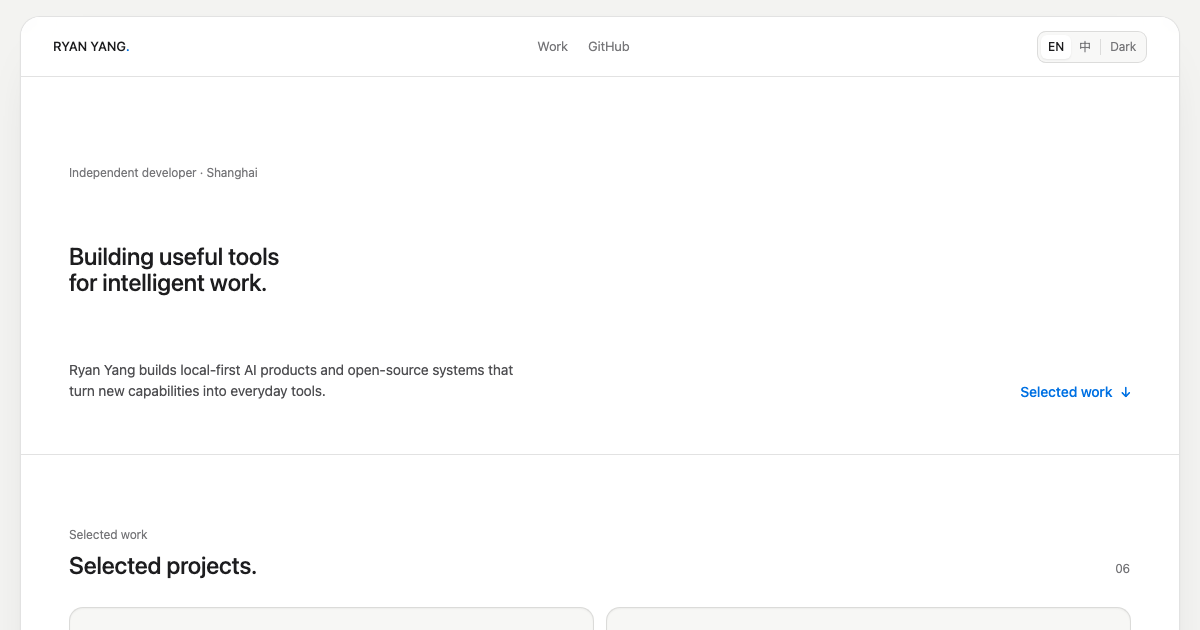
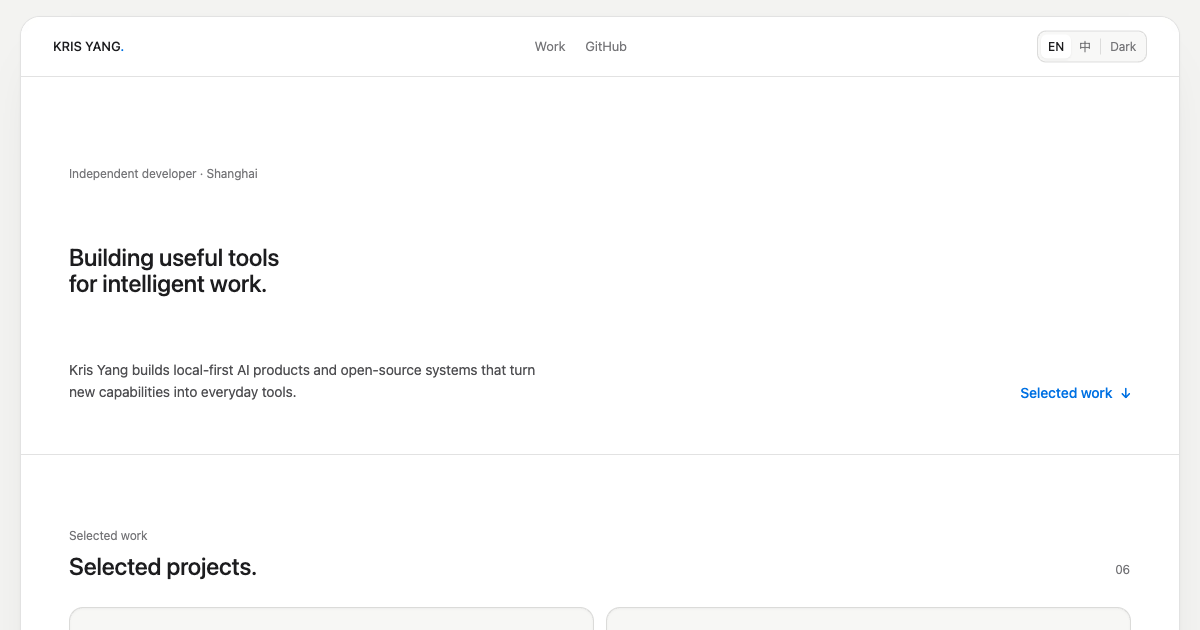
Rename site to Kris Yang on krisyang.dev

diff --git a/src/components/Portfolio.tsx b/src/components/Portfolio.tsx
@@ -8,15 +8,15 @@ export default function Portfolio() {
     <main className="site-shell">
       <div className="site-panel">
         <header className="site-header">
-          <a className="wordmark" href="#top" aria-label="Ryan Yang home">
-            RYAN YANG<span aria-hidden="true">.</span>
+          <a className="wordmark" href="#top" aria-label="Kris Yang home">
+            KRIS YANG<span aria-hidden="true">.</span>
           </a>
           <nav className="site-nav" aria-label="Primary navigation">
             <a href="#work">
               <LocaleText copy={{ en: "Work", zh: "项目" }} />
             </a>
             <a
-              href="https://github.com/Ryan-yang125"
+              href="https://github.com/krisyangdev"
               target="_blank"
               rel="noreferrer"
             >
@@ -59,8 +59,8 @@ export default function Portfolio() {
             <p>
               <LocaleText
                 copy={{
-                  en: "Ryan Yang builds local-first AI products and open-source systems that turn new capabilities into everyday tools.",
-                  zh: "Ryan Yang 构建本地优先的 AI 产品与开源系统，让新能力成为真正可用的日常工具。",
+                  en: "Kris Yang builds local-first AI products and open-source systems that turn new capabilities into everyday tools.",
+                  zh: "Kris Yang 构建本地优先的 AI 产品与开源系统，让新能力成为真正可用的日常工具。",
                 }}
               />
             </p>
@@ -101,13 +101,13 @@ export default function Portfolio() {
         <footer className="site-footer">
           <p>
             <LocaleText
-              copy={{ en: "© 2026 Ryan Yang", zh: "© 2026 Ryan Yang" }}
+              copy={{ en: "© 2026 Kris Yang", zh: "© 2026 Kris Yang" }}
             />
           </p>
           <div>
-            <a href="mailto:ruiyang0012@gmail.com">Email</a>
+            <a href="mailto:hi@krisyang.dev">Email</a>
             <a
-              href="https://github.com/Ryan-yang125"
+              href="https://github.com/krisyangdev"
               target="_blank"
               rel="noreferrer"
             >

diff --git a/src/data/projects.ts b/src/data/projects.ts
@@ -38,7 +38,7 @@ export const projects = [
         },
       ],
       resource: {
-        href: "https://github.com/Ryan-yang125/lerro#readme",
+        href: "https://github.com/krisyangdev/lerro#readme",
         label: { en: "View the source", zh: "查看源码" },
       },
     },
@@ -77,7 +77,7 @@ export const projects = [
         },
       ],
       resource: {
-        href: "https://github.com/Ryan-yang125/ChatLLM-Web#readme",
+        href: "https://github.com/krisyangdev/ChatLLM-Web#readme",
         label: { en: "View the source", zh: "查看源码" },
       },
     },
@@ -119,7 +119,7 @@ export const projects = [
         },
       ],
       resource: {
-        href: "https://github.com/Ryan-yang125/motion-lexicon#readme",
+        href: "https://github.com/krisyangdev/motion-lexicon#readme",
         label: { en: "View the source", zh: "查看源码" },
       },
     },
@@ -161,7 +161,7 @@ export const projects = [
         },
       ],
       resource: {
-        href: "https://github.com/Ryan-yang125/checkhere#readme",
+        href: "https://github.com/krisyangdev/checkhere#readme",
         label: { en: "View the source", zh: "查看源码" },
       },
     },
@@ -203,7 +203,7 @@ export const projects = [
         },
       ],
       resource: {
-        href: "https://github.com/Ryan-yang125/signature-visual#readme",
+        href: "https://github.com/krisyangdev/signature-visual#readme",
         label: { en: "View the source", zh: "查看源码" },
       },
     },
@@ -245,7 +245,7 @@ export const projects = [
         },
       ],
       resource: {
-        href: "https://github.com/Ryan-yang125/gpt-image-2-skills#readme",
+        href: "https://github.com/krisyangdev/gpt-image-2-skills#readme",
         label: { en: "Open the Agent Skill", zh: "打开 Agent Skill" },
       },
     },

diff --git a/src/components/ActivityFeed.tsx b/src/components/ActivityFeed.tsx
@@ -16,21 +16,21 @@ type GitHubEvent = {
 const fallbackActivity: ActivityItem[] = [
   {
     title: "Working on Image2Studio",
-    detail: "Ryan-yang125 / gpt-image-2-prompts",
+    detail: "krisyangdev / gpt-image-2-prompts",
     time: "CURRENT",
     url: "https://image2studio.com",
   },
   {
     title: "Maintaining ChatLLM-Web",
-    detail: "Ryan-yang125 / ChatLLM-Web",
+    detail: "krisyangdev / ChatLLM-Web",
     time: "630★",
-    url: "https://github.com/Ryan-yang125/ChatLLM-Web",
+    url: "https://github.com/krisyangdev/ChatLLM-Web",
   },
   {
     title: "Publishing small agent tools",
     detail: "DropHere · CheckHere · Skill Manager",
     time: "2026",
-    url: "https://github.com/Ryan-yang125",
+    url: "https://github.com/krisyangdev",
   },
 ];
 
@@ -71,10 +71,10 @@ function describeEvents(events: GitHubEvent[]) {
     if (seen.has(key)) continue;
     seen.add(key);
 
-    const repoName = event.repo.name.replace("Ryan-yang125/", "");
+    const repoName = event.repo.name.split("/")[1];
     items.push({
       title: labels[event.type] ?? "Updated public work",
-      detail: repoName === "Ryan-yang125" ? "profile README" : repoName,
+      detail: repoName === "krisyangdev" ? "profile README" : repoName,
       time: relativeTime(event.created_at),
       url: `https://github.com/${event.repo.name}`,
     });
@@ -93,7 +93,7 @@ export default function ActivityFeed() {
     const load = async () => {
       try {
         const response = await fetch(
-          "https://api.github.com/users/Ryan-yang125/events/public?per_page=30",
+          "https://api.github.com/users/krisyangdev/events/public?per_page=30",
           {
             headers: { Accept: "application/vnd.github+json" },
             signal: controller.signal,

diff --git a/src/components/Terminal.tsx b/src/components/Terminal.tsx
@@ -19,12 +19,12 @@ const initialLines: Line[] = [
 const commandMap: Record<string, string> = {
   help: "commands: about · now · projects · activity · contact · clear",
   about:
-    "Ryan Yang — independent AI product developer in Shanghai, building the last mile of AI work.",
+    "Kris Yang — independent AI product developer in Shanghai, building the last mile of AI work.",
   now: "Currently: Image2Studio, publishing tools, Agent Skills, and this personal site.",
   projects:
     "Image2Studio · ChatLLM-Web · DropHere · CheckHere · Motion Lexicon",
   activity: "Jumping to the latest public GitHub activity.",
-  contact: "ruiyang0012@gmail.com · x.com/ruiyanghim · github.com/Ryan-yang125",
+  contact: "hi@krisyang.dev · x.com/krisyangdev · github.com/krisyangdev",
 };
 
 const commandTargets: Record<string, string> = {
@@ -118,7 +118,7 @@ export default function Terminal() {
 
   return (
     <div className="command">
-      <div className="command-head">~/ryan — interactive shell</div>
+      <div className="command-head">~/kris — interactive shell</div>
       <div className="command-body">
         <div className="terminal-history" aria-live="polite" ref={historyRef}>
           {lines.map((line) => (

diff --git a/src/components/portfolio/SiteControls.tsx b/src/components/portfolio/SiteControls.tsx
@@ -5,8 +5,8 @@ import { useSyncExternalStore } from "react";
 type Theme = "light" | "dark";
 type Locale = "en" | "zh";
 
-const THEME_KEY = "ryan-site-theme";
-const LOCALE_KEY = "ryan-site-locale";
+const THEME_KEY = "kris-site-theme";
+const LOCALE_KEY = "kris-site-locale";
 const DEFAULT_PREFERENCE_KEY = "light:en";
 const preferenceListeners = new Set<() => void>();
 

diff --git a/README.md b/README.md
@@ -1,6 +1,6 @@
-# Ryan Yang — Personal Site
+# Kris Yang — Personal Site
 
-The source for [ruiy.pages.dev](https://ruiy.pages.dev): a bilingual, light-and-dark personal site for Ryan Yang's AI products, developer tools, and experiments.
+The source for [krisyang.dev](https://krisyang.dev): a bilingual, light-and-dark personal site for Kris Yang's AI products, developer tools, and experiments.
 
 ## Local development
 
@@ -16,4 +16,4 @@ pnpm build
 pnpm preview
 ```
 
-Cloudflare Pages publishes the static `dist/` output to [ruiy.pages.dev](https://ruiy.pages.dev).
+Cloudflare Pages publishes the static `dist/` output to [krisyang.dev](https://krisyang.dev).
